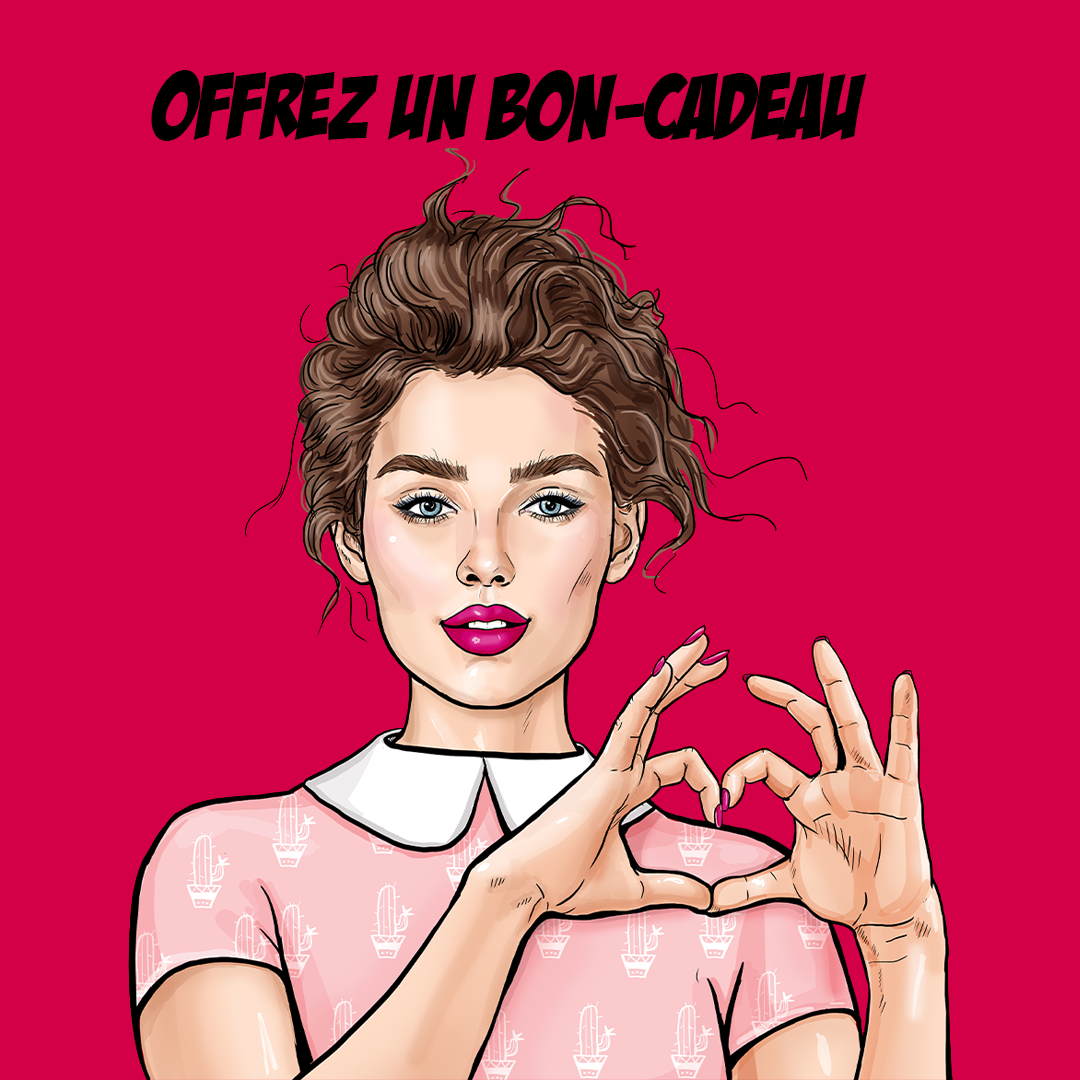
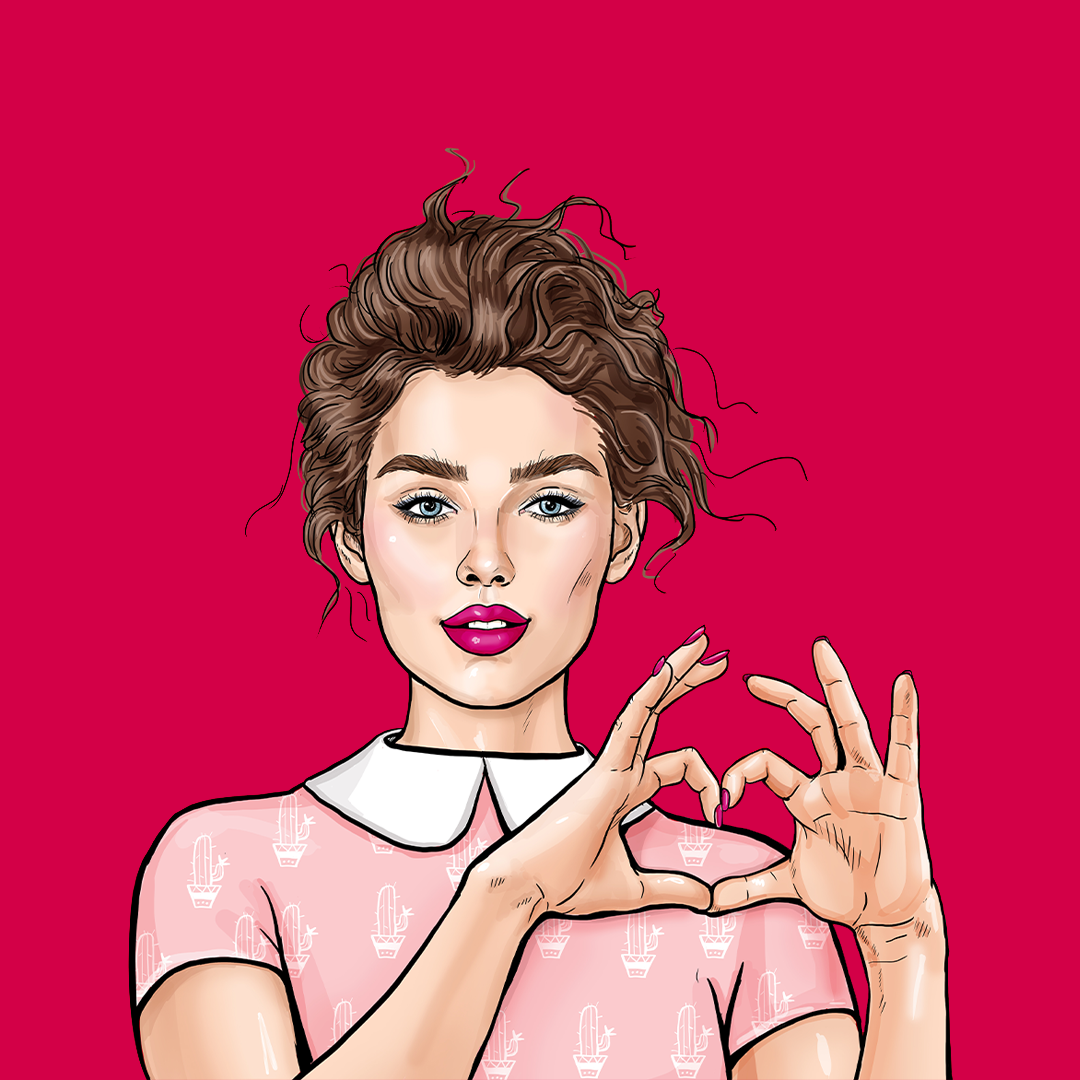
Adding photos to Rejoignez-Nous

Changed region(s): [[0.1222, 0.0611, 0.825, 0.1528]]

diff --git a/index.html b/index.html
@@ -1116,7 +1116,11 @@
 		<div class="container">
 			<h2 class="text-center mb-5 entete_row entete_row_primary">Rejoignez-nous</h2>
 			
-			
+			<div id="img-rejoindre" class="d-flex justify-content-center">
+				<img src="assets/image/rejoindre/bon_cadeau.png" alt="">
+				<img src="assets/image/rejoindre/devenez_partenaire.png" alt="">
+				<img src="assets/image/rejoindre/reseaux.png" alt="">
+			</div>
 		</div>
 		
 	</div>

diff --git a/assets/css/index.css b/assets/css/index.css
@@ -896,3 +896,10 @@ padding-bottom: 0px;
 .modal-modif {
   margin-top: 250px ;
 }
+
+
+/* Nous rejoindre */
+#img-rejoindre img {
+  width: 350px ;
+  margin-right: 20px ;
+}
